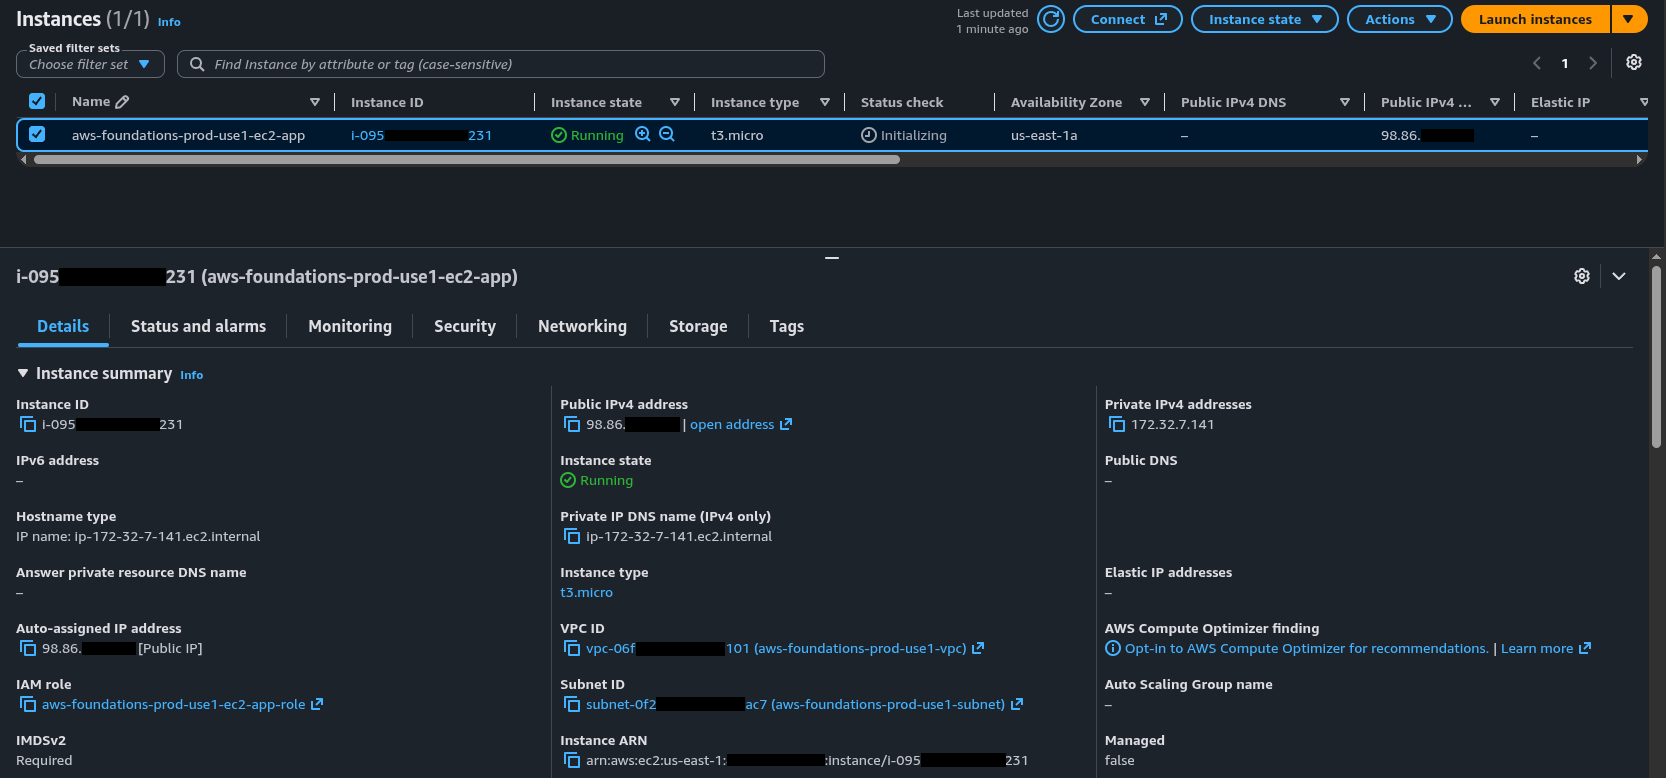
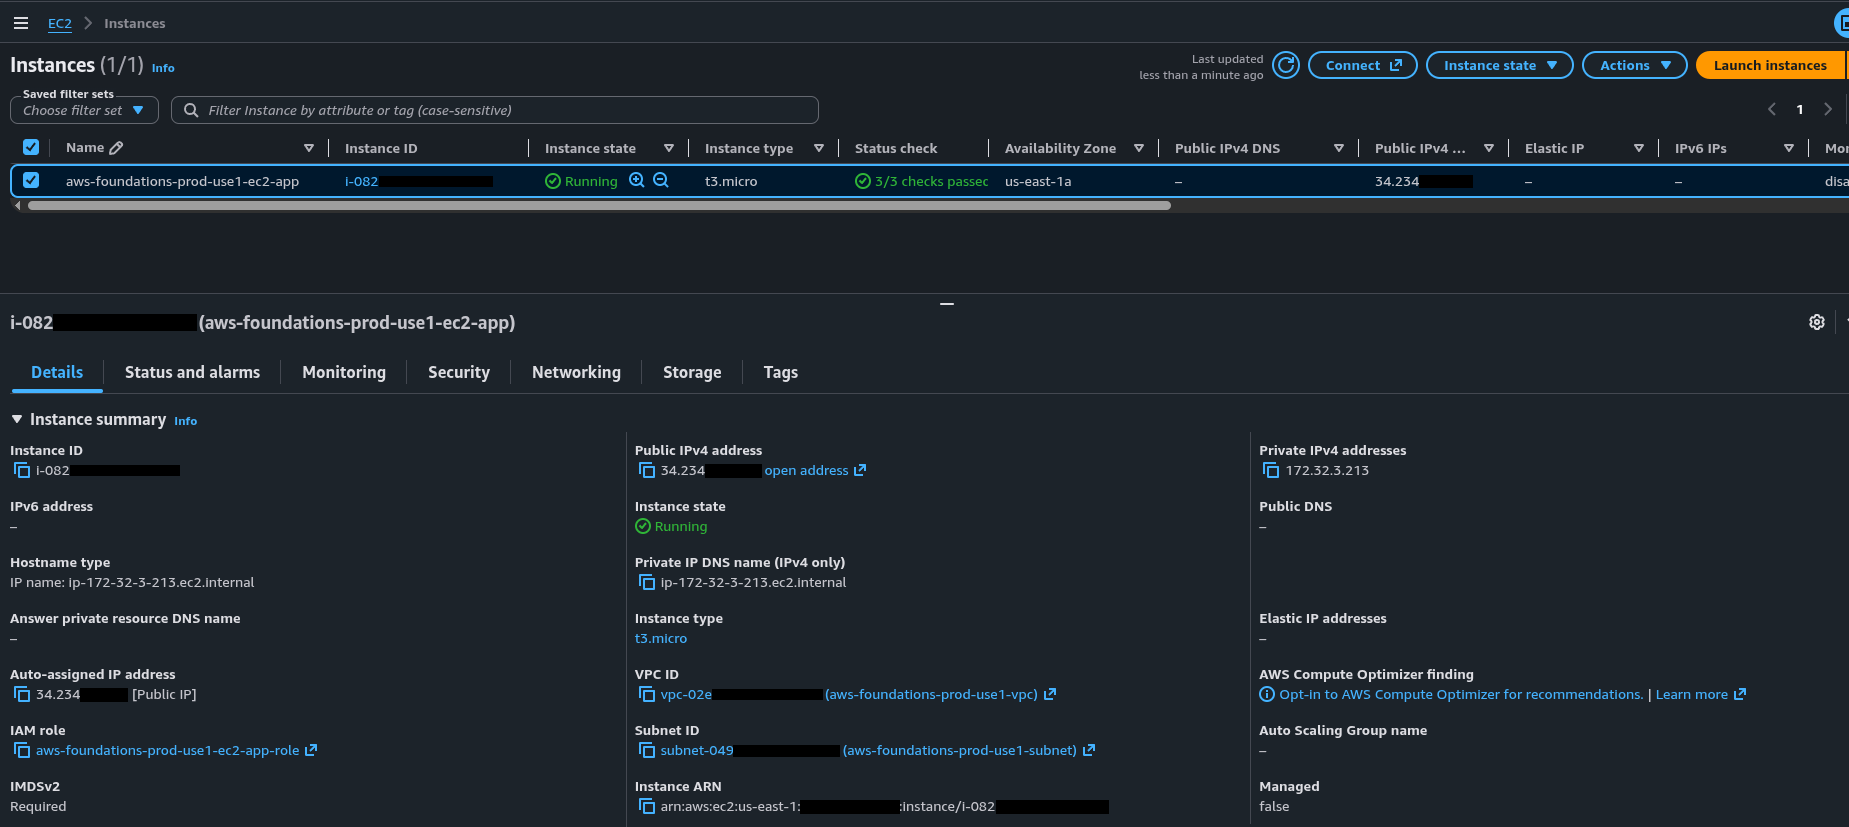
docs(images): update images with new deployment including cloudwatch

diff --git a/README.md b/README.md
@@ -108,9 +108,18 @@ Floci provides a local AWS-compatible environment that allows AWS APIs, SDKs, an
 
 The infrastructure was also deployed (with terraform) and validated in real AWS.
 
+`EC2 Instance`
+
 ![EC2 Instance](images/aws/ec2-instance.png)
 
+`S3 Bucket`
+
 ![S3 Bucket](images/aws/s3-bucket.png)
+
+`CloudWatch Logs`
+
+![CloudWatch Logs](images/aws/cloudwatch-logs.png)
+
 
 ## Infrastructure Provisioning
 
@@ -182,7 +191,19 @@ The application provides endpoints for:
 | GET    | `/files/{key}` | Retrieve a file from S3  |
 | PUT    | `/files/{key}` | Upload a file to S3      |
 
-![Endpoints](images/application/endpoints.png)
+### Test Endpoints
+
+`Health Endpoint`
+
+![Health Endpoint](images/application/health.png)
+
+`PUT File Endpoint`
+
+![PUT File Endpoint](images/application/put-file.png)
+
+`GET File Endpoint`
+
+![GET File Endpoint](images/application/get-file.png)
 
 ### CloudWatch Logs
 
